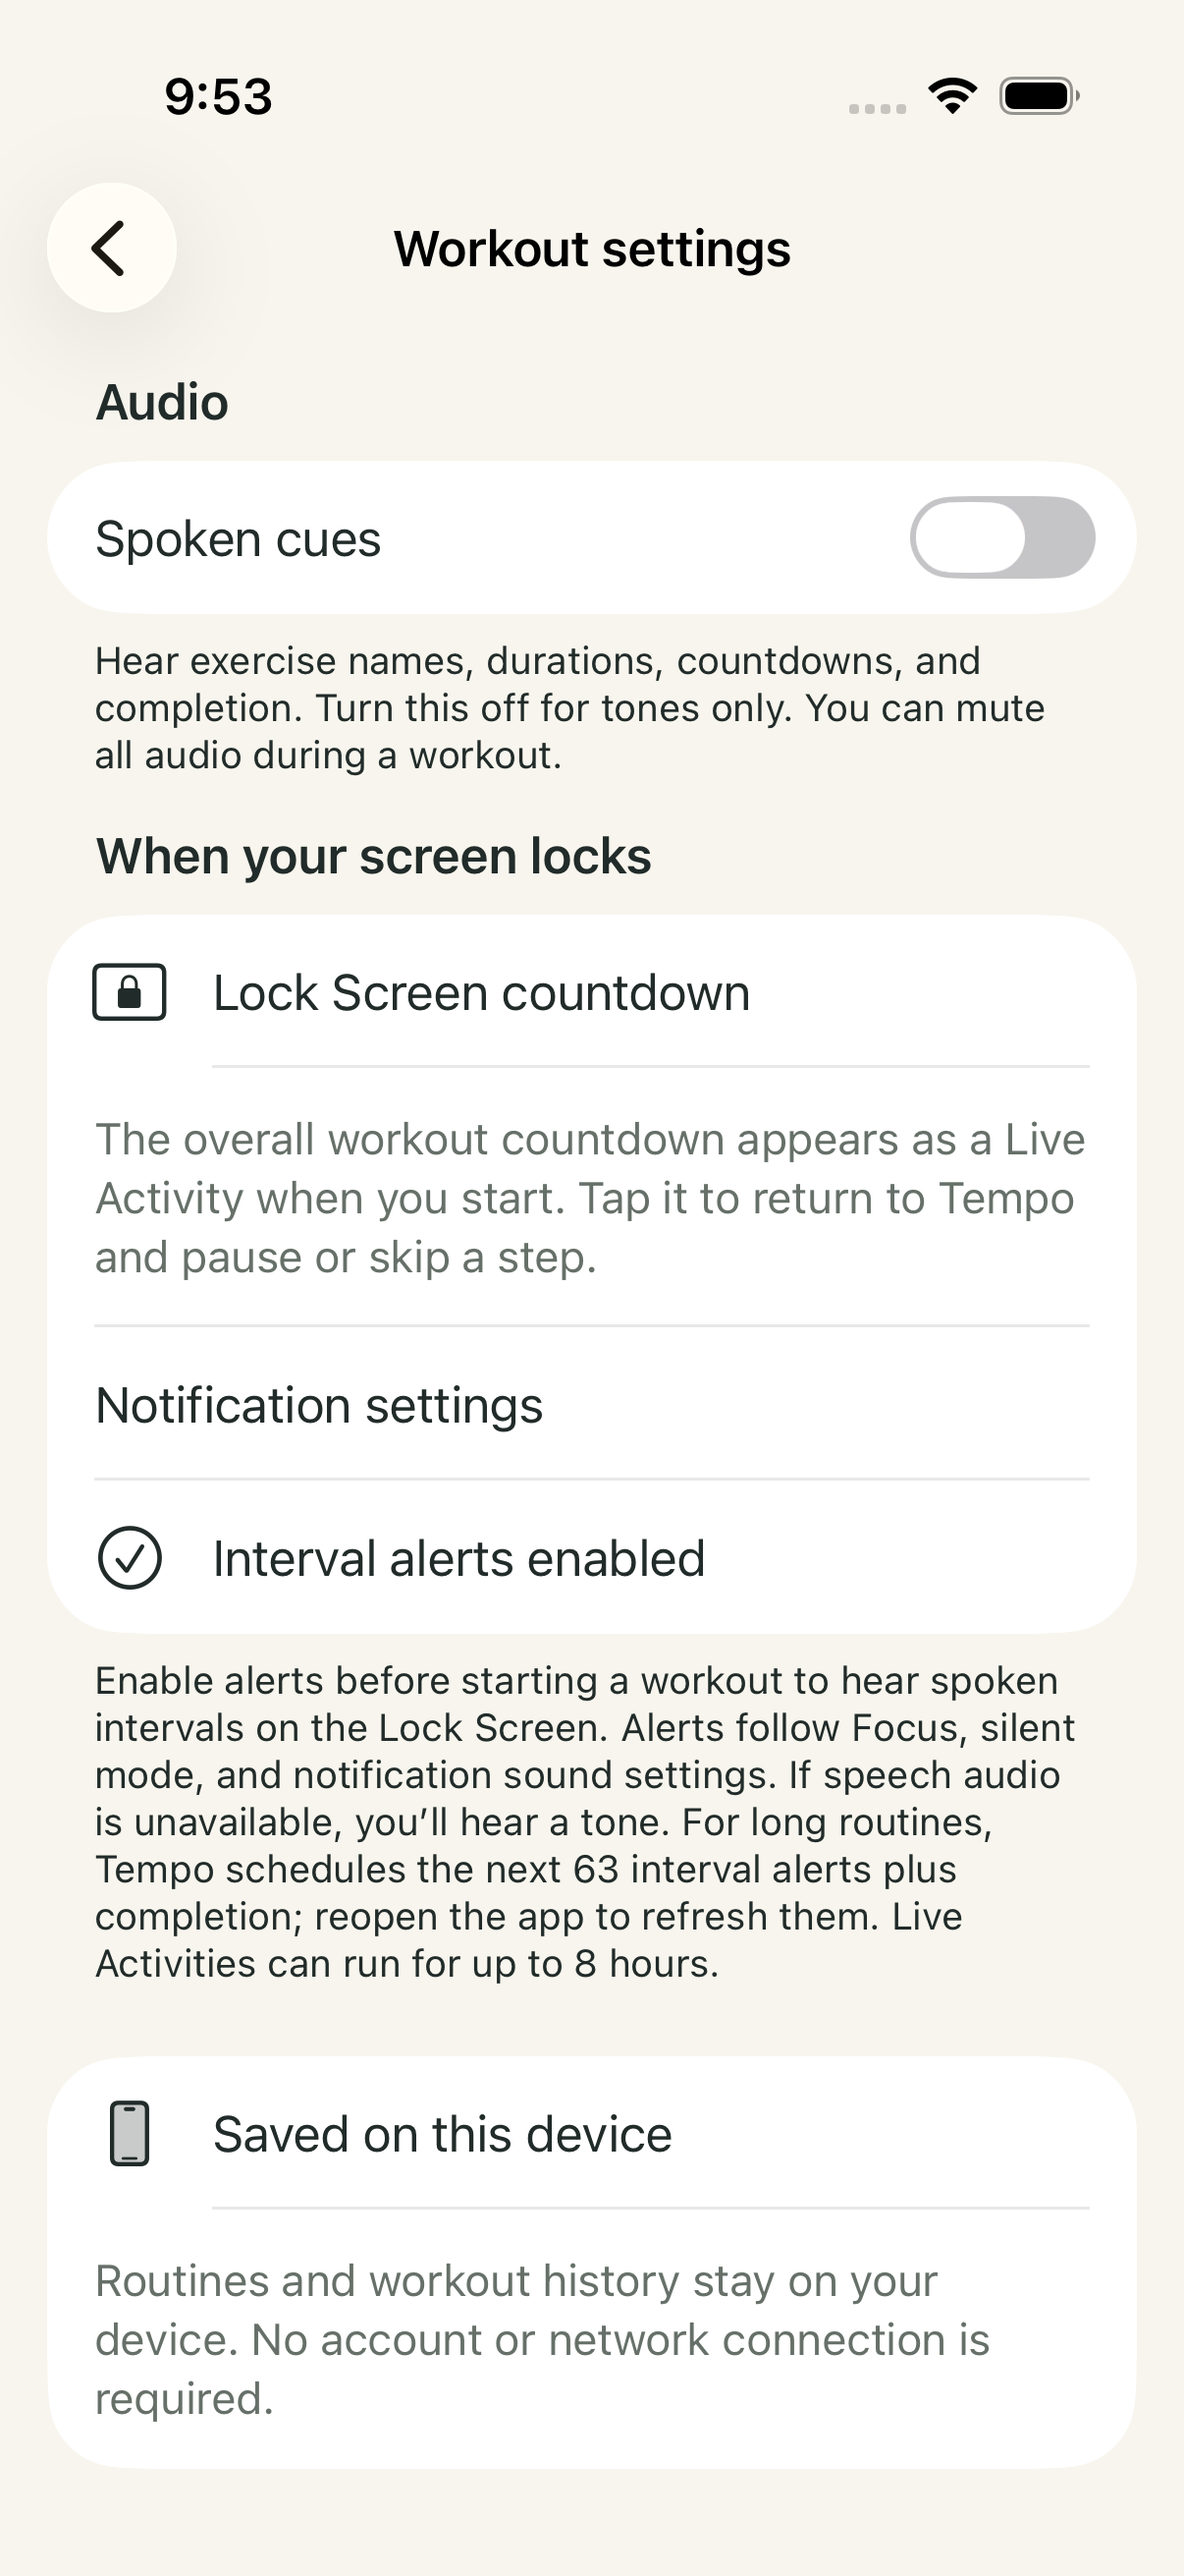
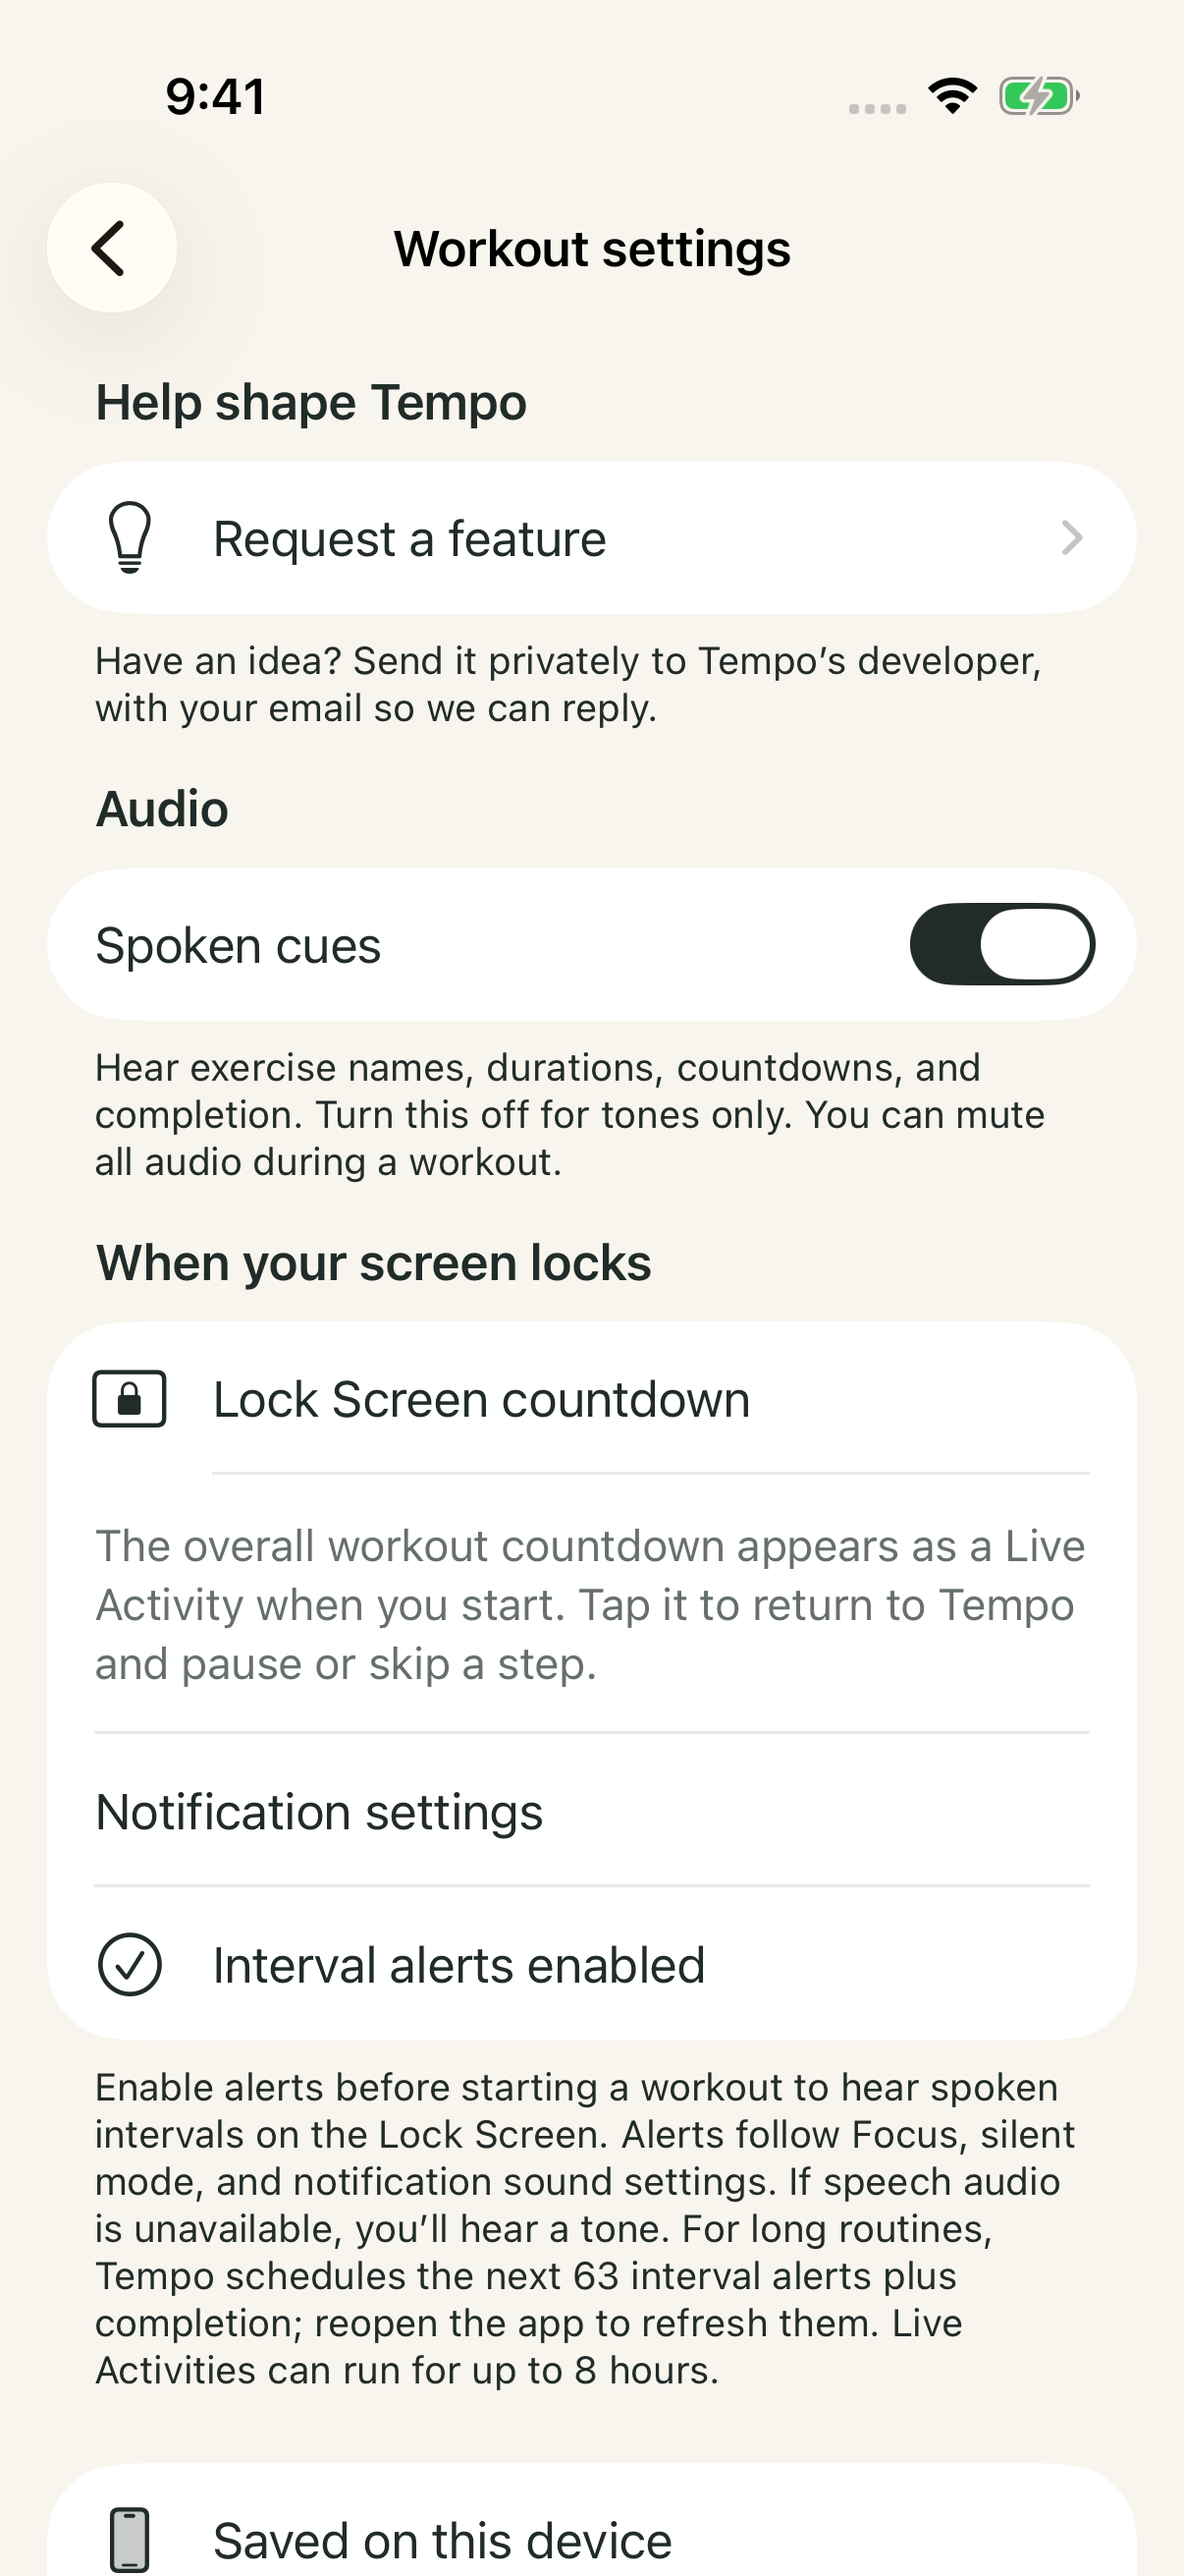
Move Help shape Tempo to the top of settings
Committed-By-Agent: codex

diff --git a/Tempo/UI/WorkoutSettingsView.swift b/Tempo/UI/WorkoutSettingsView.swift
@@ -11,6 +11,13 @@ struct WorkoutSettingsView: View {
     var body: some View {
         Form {
             Section {
+                NavigationLink { FeatureRequestView() } label: {
+                    Label("Request a feature", systemImage: "lightbulb")
+                }.accessibilityIdentifier("request-feature")
+            } header: { Text("Help shape Tempo") } footer: {
+                Text("Have an idea? Send it privately to Tempo’s developer, with your email so we can reply.")
+            }
+            Section {
                 Toggle("Spoken cues", isOn: $speechEnabled).accessibilityIdentifier("spoken-cues-setting")
             } header: { Text("Audio") } footer: {
                 Text("Hear exercise names, durations, countdowns, and completion. Turn this off for tones only. You can mute all audio during a workout.")
@@ -47,13 +54,6 @@ struct WorkoutSettingsView: View {
                 Label("Saved on this device", systemImage: "iphone")
                 Text("Routines and workout history stay on your device. No account or network connection is required.")
                     .font(.subheadline).foregroundStyle(TempoTheme.muted)
-            }
-            Section {
-                NavigationLink { FeatureRequestView() } label: {
-                    Label("Request a feature", systemImage: "lightbulb")
-                }.accessibilityIdentifier("request-feature")
-            } header: { Text("Help shape Tempo") } footer: {
-                Text("Have an idea? Send it privately to Tempo’s developer, with your email so we can reply.")
             }
         }
         .scrollContentBackground(.hidden).tempoBackground().foregroundStyle(TempoTheme.ink)

diff --git a/TempoUITests/FeatureRequestUITests.swift b/TempoUITests/FeatureRequestUITests.swift
@@ -9,6 +9,7 @@ final class FeatureRequestUITests: XCTestCase {
         let link = app.buttons["request-feature"]
         for _ in 0..<4 where !link.isHittable { app.swipeUp() }
         XCTAssertTrue(link.waitForExistence(timeout: 5))
+        capture("feature-request-entry")
         link.tap()
         XCTAssertTrue(app.textFields["feature-title"].waitForExistence(timeout: 5))
     }
